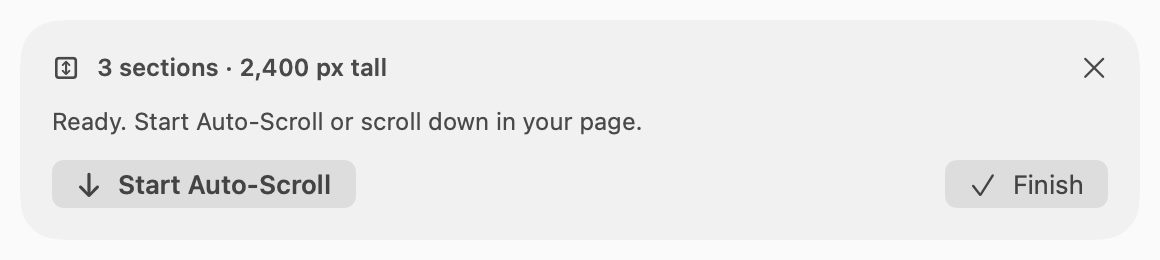
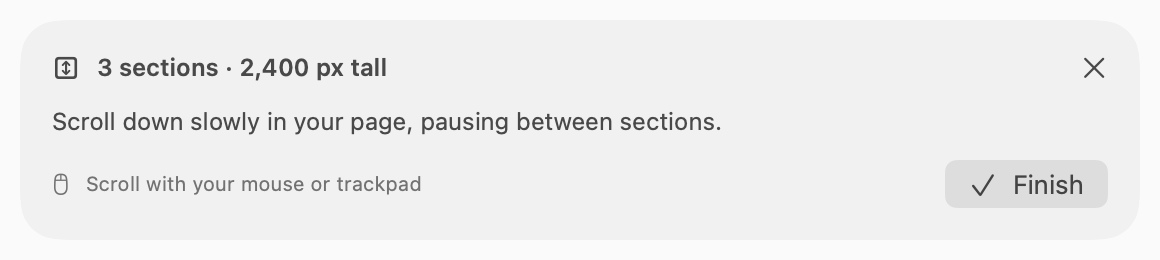
Update ScreenNestly help for manual scrolling and build 35

Changed region(s): [[0.031, 0.4308, 0.6207, 0.5231], [0.031, 0.6769, 0.3724, 0.7692]]

diff --git a/screennestly/support.html b/screennestly/support.html
@@ -1,2 +1,2 @@
 <!doctype html>
-<html lang="en"><head><meta charset="utf-8"><meta name="viewport" content="width=device-width,initial-scale=1"><meta name="description" content="Support — ScreenNestly, a local macOS screenshot and recording app by Hari Rajagopalan."><title>Support · ScreenNestly</title><link rel="stylesheet" href="styles.css"><link rel="icon" href="icon.png"></head><body><header><a class="brand" href="index.html"><img src="icon.png" width="44" height="44" alt="">ScreenNestly</a><span class="tag">A home for screenshots</span></header><main><nav aria-label="Documentation"><a href="index.html">Home</a><a href="getting-started.html">Getting Started</a><a href="support.html">Support</a><a href="privacy.html">Privacy</a><a href="terms.html">Terms</a><a href="disclaimer.html">Disclaimer</a><a href="security.html">Security</a></nav><article><h1>How can we help?</h1><p>Contact Hari Rajagopalan at <a href="mailto:rajhari@gmail.com?subject=ScreenNestly%20support">rajhari@gmail.com</a> for ScreenNestly support.</p><h2>Start here</h2><ul><li><a href="getting-started.html">Illustrated setup and capture guide</a></li><li><a href="about.html">Features, requirements, and release status</a></li><li><a href="security.html">Report a security issue privately</a></li></ul><h2>Report a problem</h2><p>Include your app version, macOS version, steps to reproduce, and what you expected. Use sample content; do not send passwords or sensitive screenshots. Ordinary bug reports may also be filed in <a href="https://github.com/harimalar/rajhari.github.io/issues">GitHub Issues</a> with “ScreenNestly” in the title. GitHub issues are public.</p><h2>Common questions</h2><p><strong>A filed capture still appears in All Captures?</strong> All Captures includes project items. Inbox contains only unfiled captures.</p><p><strong>Sharing after editing?</strong> Use Copy or Drag Image in the editor header. The canvas remains available for drawing.</p><p><strong>Scrolling capture pauses?</strong> Select below fixed toolbars, keep the target uncovered, and scroll slowly with overlap. Watch the section counter. Auto-Scroll requires optional Accessibility access.</p><p><strong>How do I record my screen?</strong> On macOS 15 or later, choose Record Screen, select Area, Window, or Full Screen, and click Continue. System Audio and Microphone start off; enable only what you need. After the countdown, use Stop to save the MP4 in Inbox.</p><p><strong>My recording has no audio?</strong> Enable System Audio or Microphone before starting. Microphone also needs permission in macOS Privacy &amp; Security. The app uses your default input. Audio is off again for the next recording.</p><p><strong>Does Save Backup include captures?</strong> No. It exports organization rules and settings only. Back up images, recordings, and project folders separately.</p></article></main><footer>© 2026 Hari Rajagopalan · <a href="mailto:rajhari@gmail.com">rajhari@gmail.com</a><br>Local capture and organization. No account or automatic uploads.</footer></body></html>
+<html lang="en"><head><meta charset="utf-8"><meta name="viewport" content="width=device-width,initial-scale=1"><meta name="description" content="Support — ScreenNestly, a local macOS screenshot and recording app by Hari Rajagopalan."><title>Support · ScreenNestly</title><link rel="stylesheet" href="styles.css"><link rel="icon" href="icon.png"></head><body><header><a class="brand" href="index.html"><img src="icon.png" width="44" height="44" alt="">ScreenNestly</a><span class="tag">A home for screenshots</span></header><main><nav aria-label="Documentation"><a href="index.html">Home</a><a href="getting-started.html">Getting Started</a><a href="support.html">Support</a><a href="privacy.html">Privacy</a><a href="terms.html">Terms</a><a href="disclaimer.html">Disclaimer</a><a href="security.html">Security</a></nav><article><h1>How can we help?</h1><p>Contact Hari Rajagopalan at <a href="mailto:rajhari@gmail.com?subject=ScreenNestly%20support">rajhari@gmail.com</a> for ScreenNestly support.</p><h2>Start here</h2><ul><li><a href="getting-started.html">Illustrated setup and capture guide</a></li><li><a href="about.html">Features, requirements, and release status</a></li><li><a href="security.html">Report a security issue privately</a></li></ul><h2>Report a problem</h2><p>Include your app version, macOS version, steps to reproduce, and what you expected. Use sample content; do not send passwords or sensitive screenshots. Ordinary bug reports may also be filed in <a href="https://github.com/harimalar/rajhari.github.io/issues">GitHub Issues</a> with “ScreenNestly” in the title. GitHub issues are public.</p><h2>Common questions</h2><p><strong>A filed capture still appears in All Captures?</strong> All Captures includes project items. Inbox contains only unfiled captures.</p><p><strong>Sharing after editing?</strong> Use Copy or Drag Image in the editor header. The canvas remains available for drawing.</p><p><strong>Scrolling capture pauses?</strong> Select below fixed toolbars, keep the target uncovered, and scroll slowly with overlap. Watch the section counter. Scrolling is manual, using your mouse or trackpad.</p><p><strong>How do I record my screen?</strong> On macOS 15 or later, choose Record Screen, select Area, Window, or Full Screen, and click Continue. System Audio and Microphone start off; enable only what you need. After the countdown, use Stop to save the MP4 in Inbox.</p><p><strong>My recording has no audio?</strong> Enable System Audio or Microphone before starting. Microphone also needs permission in macOS Privacy &amp; Security. The app uses your default input. Audio is off again for the next recording.</p><p><strong>Does Save Backup include captures?</strong> No. It exports organization rules and settings only. Back up images, recordings, and project folders separately.</p></article></main><footer>© 2026 Hari Rajagopalan · <a href="mailto:rajhari@gmail.com">rajhari@gmail.com</a><br>Local capture and organization. No account or automatic uploads.</footer></body></html>

diff --git a/screennestly/terms.html b/screennestly/terms.html
@@ -1,6 +1,6 @@
 <!doctype html>
 <html lang="en"><head><meta charset="utf-8"><meta name="viewport" content="width=device-width,initial-scale=1"><meta name="description" content="ScreenNestly Terms of Use — ScreenNestly, a local macOS screenshot and recording app by Hari Rajagopalan."><title>ScreenNestly Terms of Use · ScreenNestly</title><link rel="stylesheet" href="styles.css"><link rel="icon" href="icon.png"></head><body><header><a class="brand" href="index.html"><img src="icon.png" width="44" height="44" alt="">ScreenNestly</a><span class="tag">A home for screenshots</span></header><main><nav aria-label="Documentation"><a href="index.html">Home</a><a href="getting-started.html">Getting Started</a><a href="support.html">Support</a><a href="privacy.html">Privacy</a><a href="terms.html">Terms</a><a href="disclaimer.html">Disclaimer</a><a href="security.html">Security</a></nav><article><h1>ScreenNestly Terms of Use</h1>
-<p>Effective November 21, 2026 · Publisher: Hari Rajagopalan · Contact: <a href="mailto:rajhari@gmail.com">rajhari@gmail.com</a></p>
+<p>Effective November 25, 2026 · Publisher: Hari Rajagopalan · Contact: <a href="mailto:rajhari@gmail.com">rajhari@gmail.com</a></p>
 <h2>License and App Store purchases</h2>
 <p>ScreenNestly is licensed, not sold. Subject to your applicable purchase and license terms, you may use it for personal or commercial work on macOS devices you own or control. This is a non-exclusive license; it does not transfer ownership of the software or grant a right to redistribute paid binaries.</p>
 <p>For copies acquired through Apple's App Store, <a href="https://www.apple.com/legal/internet-services/itunes/dev/stdeula/">Apple's Standard Licensed Application End User License Agreement</a> and applicable Apple usage rules govern the software license. These terms describe ScreenNestly's operation and supplement that license only where consistent with it. They do not replace Apple's license, usage rights, refund rules, or mandatory consumer protections. Any conflict is resolved in favor of the applicable Apple agreement and mandatory law.</p>
@@ -9,7 +9,7 @@
 <p>You retain your rights in your own content. ScreenNestly claims no ownership of screenshots, recordings, or annotations. You are responsible for having permission to capture, store, edit, and share content, and for respecting copyright, confidentiality, workplace rules, and applicable privacy law. Do not use the app for unlawful surveillance or unauthorized access.</p>
 <p>Do not redistribute or resell unauthorized copies of the app, remove proprietary notices, or circumvent license restrictions. Reverse engineering restrictions apply only to the extent permitted by law and the applicable license; they do not restrict rights expressly granted by an included open-source component's license. KeyboardShortcuts remains subject to its MIT license, included with the app.</p>
 <h2>Permissions and file operations</h2>
-<p>Screen capture needs the corresponding macOS permission. Screen recording requires macOS 15 or later; microphone access is optional and used only when you enable it. You are responsible for any consent required to record voices or other content. Auto-Scroll needs optional event-posting/Accessibility access. Folder watching and project exports use folders you select. You can revoke permissions in macOS settings; affected features may then stop working.</p>
+<p>Screen capture needs the corresponding macOS permission. Screen recording requires macOS 15 or later; microphone access is optional and used only when you enable it. You are responsible for any consent required to record voices or other content. Folder watching and project exports use folders you select. You can revoke permissions in macOS settings; affected features may then stop working.</p>
 <p>Auto-Rules can move or rename matching files in the watched folder. Test rules and review their order and destinations before enabling automation. Batch Delete moves library-owned images, recordings, and thumbnails to Trash; project exports and external originals are separate. Reset App Settings clears organization settings and history, not the capture library. Undo and recovery are not a substitute for backups and may be limited by changed, missing, or inaccessible files.</p>
 <p>Keep separate backups of important images, recordings, and project folders. <strong>Save Backup covers organization rules and settings, not screenshots, recordings, or the library.</strong> See the <a href="privacy.html">Privacy Policy</a> for local storage, retained originals, and temporary transfer copies.</p>
 <h2>Capture, editing, and compatibility</h2>

diff --git a/screennestly/security.html b/screennestly/security.html
@@ -1,12 +1,12 @@
 <!doctype html>
 <html lang="en"><head><meta charset="utf-8"><meta name="viewport" content="width=device-width,initial-scale=1"><meta name="description" content="ScreenNestly Security Policy — ScreenNestly, a local macOS screenshot and recording app by Hari Rajagopalan."><title>ScreenNestly Security Policy · ScreenNestly</title><link rel="stylesheet" href="styles.css"><link rel="icon" href="icon.png"></head><body><header><a class="brand" href="index.html"><img src="icon.png" width="44" height="44" alt="">ScreenNestly</a><span class="tag">A home for screenshots</span></header><main><nav aria-label="Documentation"><a href="index.html">Home</a><a href="getting-started.html">Getting Started</a><a href="support.html">Support</a><a href="privacy.html">Privacy</a><a href="terms.html">Terms</a><a href="disclaimer.html">Disclaimer</a><a href="security.html">Security</a></nav><article><h1>ScreenNestly Security Policy</h1>
-<p>Updated November 21, 2026 · Maintainer: Hari Rajagopalan</p>
+<p>Updated November 25, 2026 · Maintainer: Hari Rajagopalan</p>
 <h2>Report privately</h2>
 <p>Send suspected vulnerabilities to <strong><a href="mailto:rajhari@gmail.com?subject=ScreenNestly%20security%20report">rajhari@gmail.com</a></strong> with the subject "ScreenNestly security report." Do not post exploitable details or sensitive screenshots in a public GitHub issue.</p>
 <p>Include the app and macOS versions, a clear description, impact, and minimal steps to reproduce using synthetic content. Do not attach passwords, access tokens, real customer records, or someone else's private files. Contact us first if a report needs sensitive material; ordinary email is not a secure file vault.</p>
 <p>Reports are reviewed and coordinated privately. No fixed response deadline, bounty, or legal immunity is promised. Test only devices and files you own or are authorized to test, avoid destructive tests, and allow time for a fix before public disclosure. The latest released version is the primary maintenance target; older versions are not guaranteed separate patches.</p>
 <h2>Security model and limits</h2>
-<p>ScreenNestly uses the macOS app sandbox, user-selected folder access, and system-managed capture, optional microphone, and optional Accessibility permissions. OCR runs on the device. The app has no account, cloud service, remote-control endpoint, advertising, analytics, or automatic capture upload.</p>
+<p>ScreenNestly uses the macOS app sandbox, user-selected folder access, and system-managed capture and optional microphone permissions. OCR runs on the device. The app has no account, cloud service, remote-control endpoint, advertising, analytics, or automatic capture upload.</p>
 <p>The local library includes MP4 recordings (and enabled audio), original images and recognized text as well as edited renders. Audio options start off for every recording. Failed recordings may remain locally for recovery. It is not a separately encrypted or password-protected vault. Protect your Mac account and backups; use macOS security features such as FileVault where appropriate. Solid Redact affects the shared render, while the original remains locally editable.</p>
 <p>Sharing through the clipboard, drag-and-drop, exports, email, or folders managed by another service moves copies outside the app's control. Keep settings backups private: they can contain paths and folder-access bookmarks. See the <a href="privacy.html">Privacy Policy</a> for storage, temporary copies, retention, and deletion details.</p>
 <h2>Dependency and release checks</h2>

diff --git a/screennestly/privacy.html b/screennestly/privacy.html
@@ -1,6 +1,6 @@
 <!doctype html>
 <html lang="en"><head><meta charset="utf-8"><meta name="viewport" content="width=device-width,initial-scale=1"><meta name="description" content="ScreenNestly Privacy Policy — ScreenNestly, a local macOS screenshot and recording app by Hari Rajagopalan."><title>ScreenNestly Privacy Policy · ScreenNestly</title><link rel="stylesheet" href="styles.css"><link rel="icon" href="icon.png"></head><body><header><a class="brand" href="index.html"><img src="icon.png" width="44" height="44" alt="">ScreenNestly</a><span class="tag">A home for screenshots</span></header><main><nav aria-label="Documentation"><a href="index.html">Home</a><a href="getting-started.html">Getting Started</a><a href="support.html">Support</a><a href="privacy.html">Privacy</a><a href="terms.html">Terms</a><a href="disclaimer.html">Disclaimer</a><a href="security.html">Security</a></nav><article><h1>ScreenNestly Privacy Policy</h1>
-<p>Updated November 21, 2026 · Publisher: Hari Rajagopalan · Contact: <a href="mailto:rajhari@gmail.com">rajhari@gmail.com</a></p>
+<p>Updated November 25, 2026 · Publisher: Hari Rajagopalan · Contact: <a href="mailto:rajhari@gmail.com">rajhari@gmail.com</a></p>
 <h2>A local capture app</h2>
 <p>ScreenNestly has no cloud service, account system, hosted sharing, advertising, or analytics. The app does not upload your captures, recognized text, file paths, or usage history to the developer. We do not sell your information. Capture, editing, organization, and text recognition work on your Mac.</p>
 <p>This policy covers the ScreenNestly macOS app. Visiting the documentation website or contacting support uses separate services described below.</p>
@@ -11,7 +11,7 @@
 <ul>
 <li><strong>Screen Recording / Screen &amp; System Audio Recording:</strong> lets ScreenNestly capture a selected area, window, display, or scrolling sequence, and record screen video on macOS 15 or later. System audio is recorded only when you switch System Audio on for a recording. Capture starts when you request it; scrolling capture continues until you finish, cancel, or a limit stops it.</li>
 <li><strong>Microphone:</strong> optional permission records the default microphone only when you enable Microphone for a recording. System audio and microphone start off for each recording. Audio is saved in the local MP4; it is not uploaded or transcribed.</li>
-<li><strong>Accessibility / event posting:</strong> optional access lets Auto-Scroll send scrolling gestures to the selected application. Manual scrolling works without this access. Global shortcuts use macOS hotkey registration; they do not require general keystroke monitoring.</li>
+<li><strong>Global shortcuts:</strong> use macOS hotkey registration; they do not require general keystroke monitoring. ScreenNestly does not request Accessibility or event-posting access. Scrolling capture follows your manual mouse or trackpad scrolling.</li>
 <li><strong>Files and folders:</strong> user-selected folder access lets Auto-Rules watch, move, and rename matching images, and lets projects receive image or recording exports. Folder watching is optional and can remain active while the menu-bar app is running.</li>
 <li><strong>Notifications and login item:</strong> optional settings provide local organization notifications and launch the app when you sign in.</li>
 </ul>

diff --git a/screennestly/getting-started.html b/screennestly/getting-started.html
@@ -11,7 +11,6 @@
 <p>These permissions are optional:</p>
 <ul>
 <li><strong>Microphone</strong> lets a recording include your voice when you explicitly switch Microphone on. Declining it leaves silent/system-audio recording available.</li>
-<li><strong>Accessibility</strong> allows Auto-Scroll to send scroll gestures. Enable it from the Permissions page when you want Auto-Scroll. Manual scrolling does not need it.</li>
 <li><strong>Folder access</strong> lets Auto-Rules watch a folder. Use <strong>Choose Folder…</strong> to select it. ScreenNestly’s own captures already save in Inbox.</li>
 </ul>
 <h2>2. Take your first screenshot</h2>
@@ -39,11 +38,11 @@
 <ol>
 <li>Bring your page or document to the front. Choose <strong>Scrolling Capture</strong> from the menu-bar dropdown.</li>
 <li>Select the moving content below fixed headers and toolbars. Corner brackets show what will be captured.</li>
-<li>Click <strong>Start Auto-Scroll</strong>, or scroll slowly downward yourself. Keep the selected window uncovered and watch the section count grow.</li>
+<li>Scroll slowly downward with your mouse or trackpad, pausing between sections. Keep the selected window uncovered and watch the section count grow.</li>
 <li>Click <strong>Finish</strong>. In the saved preview, use <strong>Fit Width</strong> and scroll to read the long image.</li>
 </ol>
 <p><img alt="Scrolling capture controls" src="GuideScrolling-light.png" /></p>
-<p>If no new section appears, check that the page is moving inside the selected area. If capture pauses because it cannot match an overlap, scroll back slowly toward the last captured section and pause. Auto-Scroll needs Accessibility access; check <strong>Help → Permissions…</strong>. Before a second section is captured, <strong>Save One Image</strong> saves a normal screenshot.</p>
+<p>If no new section appears, check that the page is moving inside the selected area. If capture pauses because it cannot match an overlap, scroll back slowly toward the last captured section and pause. Finish becomes available after at least two sections are captured. Use ordinary Area Capture if you need only one image.</p>
 <h2>5. Keep your library organized</h2>
 <p><img alt="Library and batch actions" src="GuideLibrary-light.png" /></p>
 <ul>

diff --git a/screennestly/about.html b/screennestly/about.html
@@ -3,7 +3,7 @@
 <p><strong>A home for screenshots.</strong> ScreenNestly is a native macOS utility by Hari Rajagopalan for capturing screenshots, recording your screen, annotating images, and organizing visual references on your Mac. No account or ScreenNestly cloud service is involved.</p>
 <h2>What it does</h2>
 <ul>
-<li>Area, window, full-screen, and scrolling capture, with manual scrolling or optional Auto-Scroll.</li>
+<li>Area, window, full-screen, and scrolling capture, with manual scrolling.</li>
 <li>Local MP4 recordings of an area, window, or display on macOS 15 or later, with optional system audio and microphone. Both audio options start off for every recording.</li>
 <li>A Quick Access corner preview for copying, editing, pinning, and dragging to apps that accept images or files.</li>
 <li>Arrows, shapes, text, numbered steps, highlight, solid redaction, manual Blur and Pixelate, cropping, and decorative export backgrounds.</li>

diff --git a/screennestly/GettingStarted.md b/screennestly/GettingStarted.md
@@ -13,7 +13,6 @@ ScreenNestly captures screenshots and, on macOS 15 or later, MP4 screen recordin
 These permissions are optional:
 
 - **Microphone** lets a recording include your voice when you explicitly switch Microphone on. Declining it leaves silent/system-audio recording available.
-- **Accessibility** allows Auto-Scroll to send scroll gestures. Enable it from the Permissions page when you want Auto-Scroll. Manual scrolling does not need it.
 - **Folder access** lets Auto-Rules watch a folder. Use **Choose Folder…** to select it. ScreenNestly’s own captures already save in Inbox.
 
 ## 2. Take your first screenshot
@@ -49,12 +48,12 @@ Choose arrows, text, numbered steps, Blur, Pixelate, or Redact. Edits save autom
 
 1. Bring your page or document to the front. Choose **Scrolling Capture** from the menu-bar dropdown.
 2. Select the moving content below fixed headers and toolbars. Corner brackets show what will be captured.
-3. Click **Start Auto-Scroll**, or scroll slowly downward yourself. Keep the selected window uncovered and watch the section count grow.
+3. Scroll slowly downward with your mouse or trackpad, pausing between sections. Keep the selected window uncovered and watch the section count grow.
 4. Click **Finish**. In the saved preview, use **Fit Width** and scroll to read the long image.
 
 ![Scrolling capture controls](GuideScrolling-light.png)
 
-If no new section appears, check that the page is moving inside the selected area. If capture pauses because it cannot match an overlap, scroll back slowly toward the last captured section and pause. Auto-Scroll needs Accessibility access; check **Help → Permissions…**. Before a second section is captured, **Save One Image** saves a normal screenshot.
+If no new section appears, check that the page is moving inside the selected area. If capture pauses because it cannot match an overlap, scroll back slowly toward the last captured section and pause. Finish becomes available after at least two sections are captured. Use ordinary Area Capture if you need only one image.
 
 ## 5. Keep your library organized
 

diff --git a/screennestly/PRIVACY.md b/screennestly/PRIVACY.md
@@ -1,6 +1,6 @@
 # ScreenNestly Privacy Policy
 
-Updated November 21, 2026 · Publisher: Hari Rajagopalan · Contact: [rajhari@gmail.com](mailto:rajhari@gmail.com)
+Updated November 25, 2026 · Publisher: Hari Rajagopalan · Contact: [rajhari@gmail.com](mailto:rajhari@gmail.com)
 
 ## A local capture app
 
@@ -18,7 +18,7 @@ OCR uses Apple's Vision framework on your device. Images and recognized text are
 
 - **Screen Recording / Screen & System Audio Recording:** lets ScreenNestly capture a selected area, window, display, or scrolling sequence, and record screen video on macOS 15 or later. System audio is recorded only when you switch System Audio on for a recording. Capture starts when you request it; scrolling capture continues until you finish, cancel, or a limit stops it.
 - **Microphone:** optional permission records the default microphone only when you enable Microphone for a recording. System audio and microphone start off for each recording. Audio is saved in the local MP4; it is not uploaded or transcribed.
-- **Accessibility / event posting:** optional access lets Auto-Scroll send scrolling gestures to the selected application. Manual scrolling works without this access. Global shortcuts use macOS hotkey registration; they do not require general keystroke monitoring.
+- **Global shortcuts:** use macOS hotkey registration; they do not require general keystroke monitoring. ScreenNestly does not request Accessibility or event-posting access. Scrolling capture follows your manual mouse or trackpad scrolling.
 - **Files and folders:** user-selected folder access lets Auto-Rules watch, move, and rename matching images, and lets projects receive image or recording exports. Folder watching is optional and can remain active while the menu-bar app is running.
 - **Notifications and login item:** optional settings provide local organization notifications and launch the app when you sign in.
 

diff --git a/screennestly/TERMS.md b/screennestly/TERMS.md
@@ -1,6 +1,6 @@
 # ScreenNestly Terms of Use
 
-Effective November 21, 2026 · Publisher: Hari Rajagopalan · Contact: [rajhari@gmail.com](mailto:rajhari@gmail.com)
+Effective November 25, 2026 · Publisher: Hari Rajagopalan · Contact: [rajhari@gmail.com](mailto:rajhari@gmail.com)
 
 ## License and App Store purchases
 
@@ -18,7 +18,7 @@ Do not redistribute or resell unauthorized copies of the app, remove proprietary
 
 ## Permissions and file operations
 
-Screen capture needs the corresponding macOS permission. Screen recording requires macOS 15 or later; microphone access is optional and used only when you enable it. You are responsible for any consent required to record voices or other content. Auto-Scroll needs optional event-posting/Accessibility access. Folder watching and project exports use folders you select. You can revoke permissions in macOS settings; affected features may then stop working.
+Screen capture needs the corresponding macOS permission. Screen recording requires macOS 15 or later; microphone access is optional and used only when you enable it. You are responsible for any consent required to record voices or other content. Folder watching and project exports use folders you select. You can revoke permissions in macOS settings; affected features may then stop working.
 
 Auto-Rules can move or rename matching files in the watched folder. Test rules and review their order and destinations before enabling automation. Batch Delete moves library-owned images, recordings, and thumbnails to Trash; project exports and external originals are separate. Reset App Settings clears organization settings and history, not the capture library. Undo and recovery are not a substitute for backups and may be limited by changed, missing, or inaccessible files.
 

diff --git a/screennestly/SECURITY.md b/screennestly/SECURITY.md
@@ -1,6 +1,6 @@
 # ScreenNestly Security Policy
 
-Updated November 21, 2026 · Maintainer: Hari Rajagopalan
+Updated November 25, 2026 · Maintainer: Hari Rajagopalan
 
 ## Report privately
 
@@ -12,7 +12,7 @@ Reports are reviewed and coordinated privately. No fixed response deadline, boun
 
 ## Security model and limits
 
-ScreenNestly uses the macOS app sandbox, user-selected folder access, and system-managed capture, optional microphone, and optional Accessibility permissions. OCR runs on the device. The app has no account, cloud service, remote-control endpoint, advertising, analytics, or automatic capture upload.
+ScreenNestly uses the macOS app sandbox, user-selected folder access, and system-managed capture and optional microphone permissions. OCR runs on the device. The app has no account, cloud service, remote-control endpoint, advertising, analytics, or automatic capture upload.
 
 The local library includes MP4 recordings (and enabled audio), original images and recognized text as well as edited renders. Audio options start off for every recording. Failed recordings may remain locally for recovery. It is not a separately encrypted or password-protected vault. Protect your Mac account and backups; use macOS security features such as FileVault where appropriate. Solid Redact affects the shared render, while the original remains locally editable.
 

diff --git a/screennestly/ABOUT.md b/screennestly/ABOUT.md
@@ -4,7 +4,7 @@
 
 ## What it does
 
-- Area, window, full-screen, and scrolling capture, with manual scrolling or optional Auto-Scroll.
+- Area, window, full-screen, and scrolling capture, with manual scrolling.
 - Local MP4 recordings of an area, window, or display on macOS 15 or later, with optional system audio and microphone. Both audio options start off for every recording.
 - A Quick Access corner preview for copying, editing, pinning, and dragging to apps that accept images or files.
 - Arrows, shapes, text, numbered steps, highlight, solid redaction, manual Blur and Pixelate, cropping, and decorative export backgrounds.
